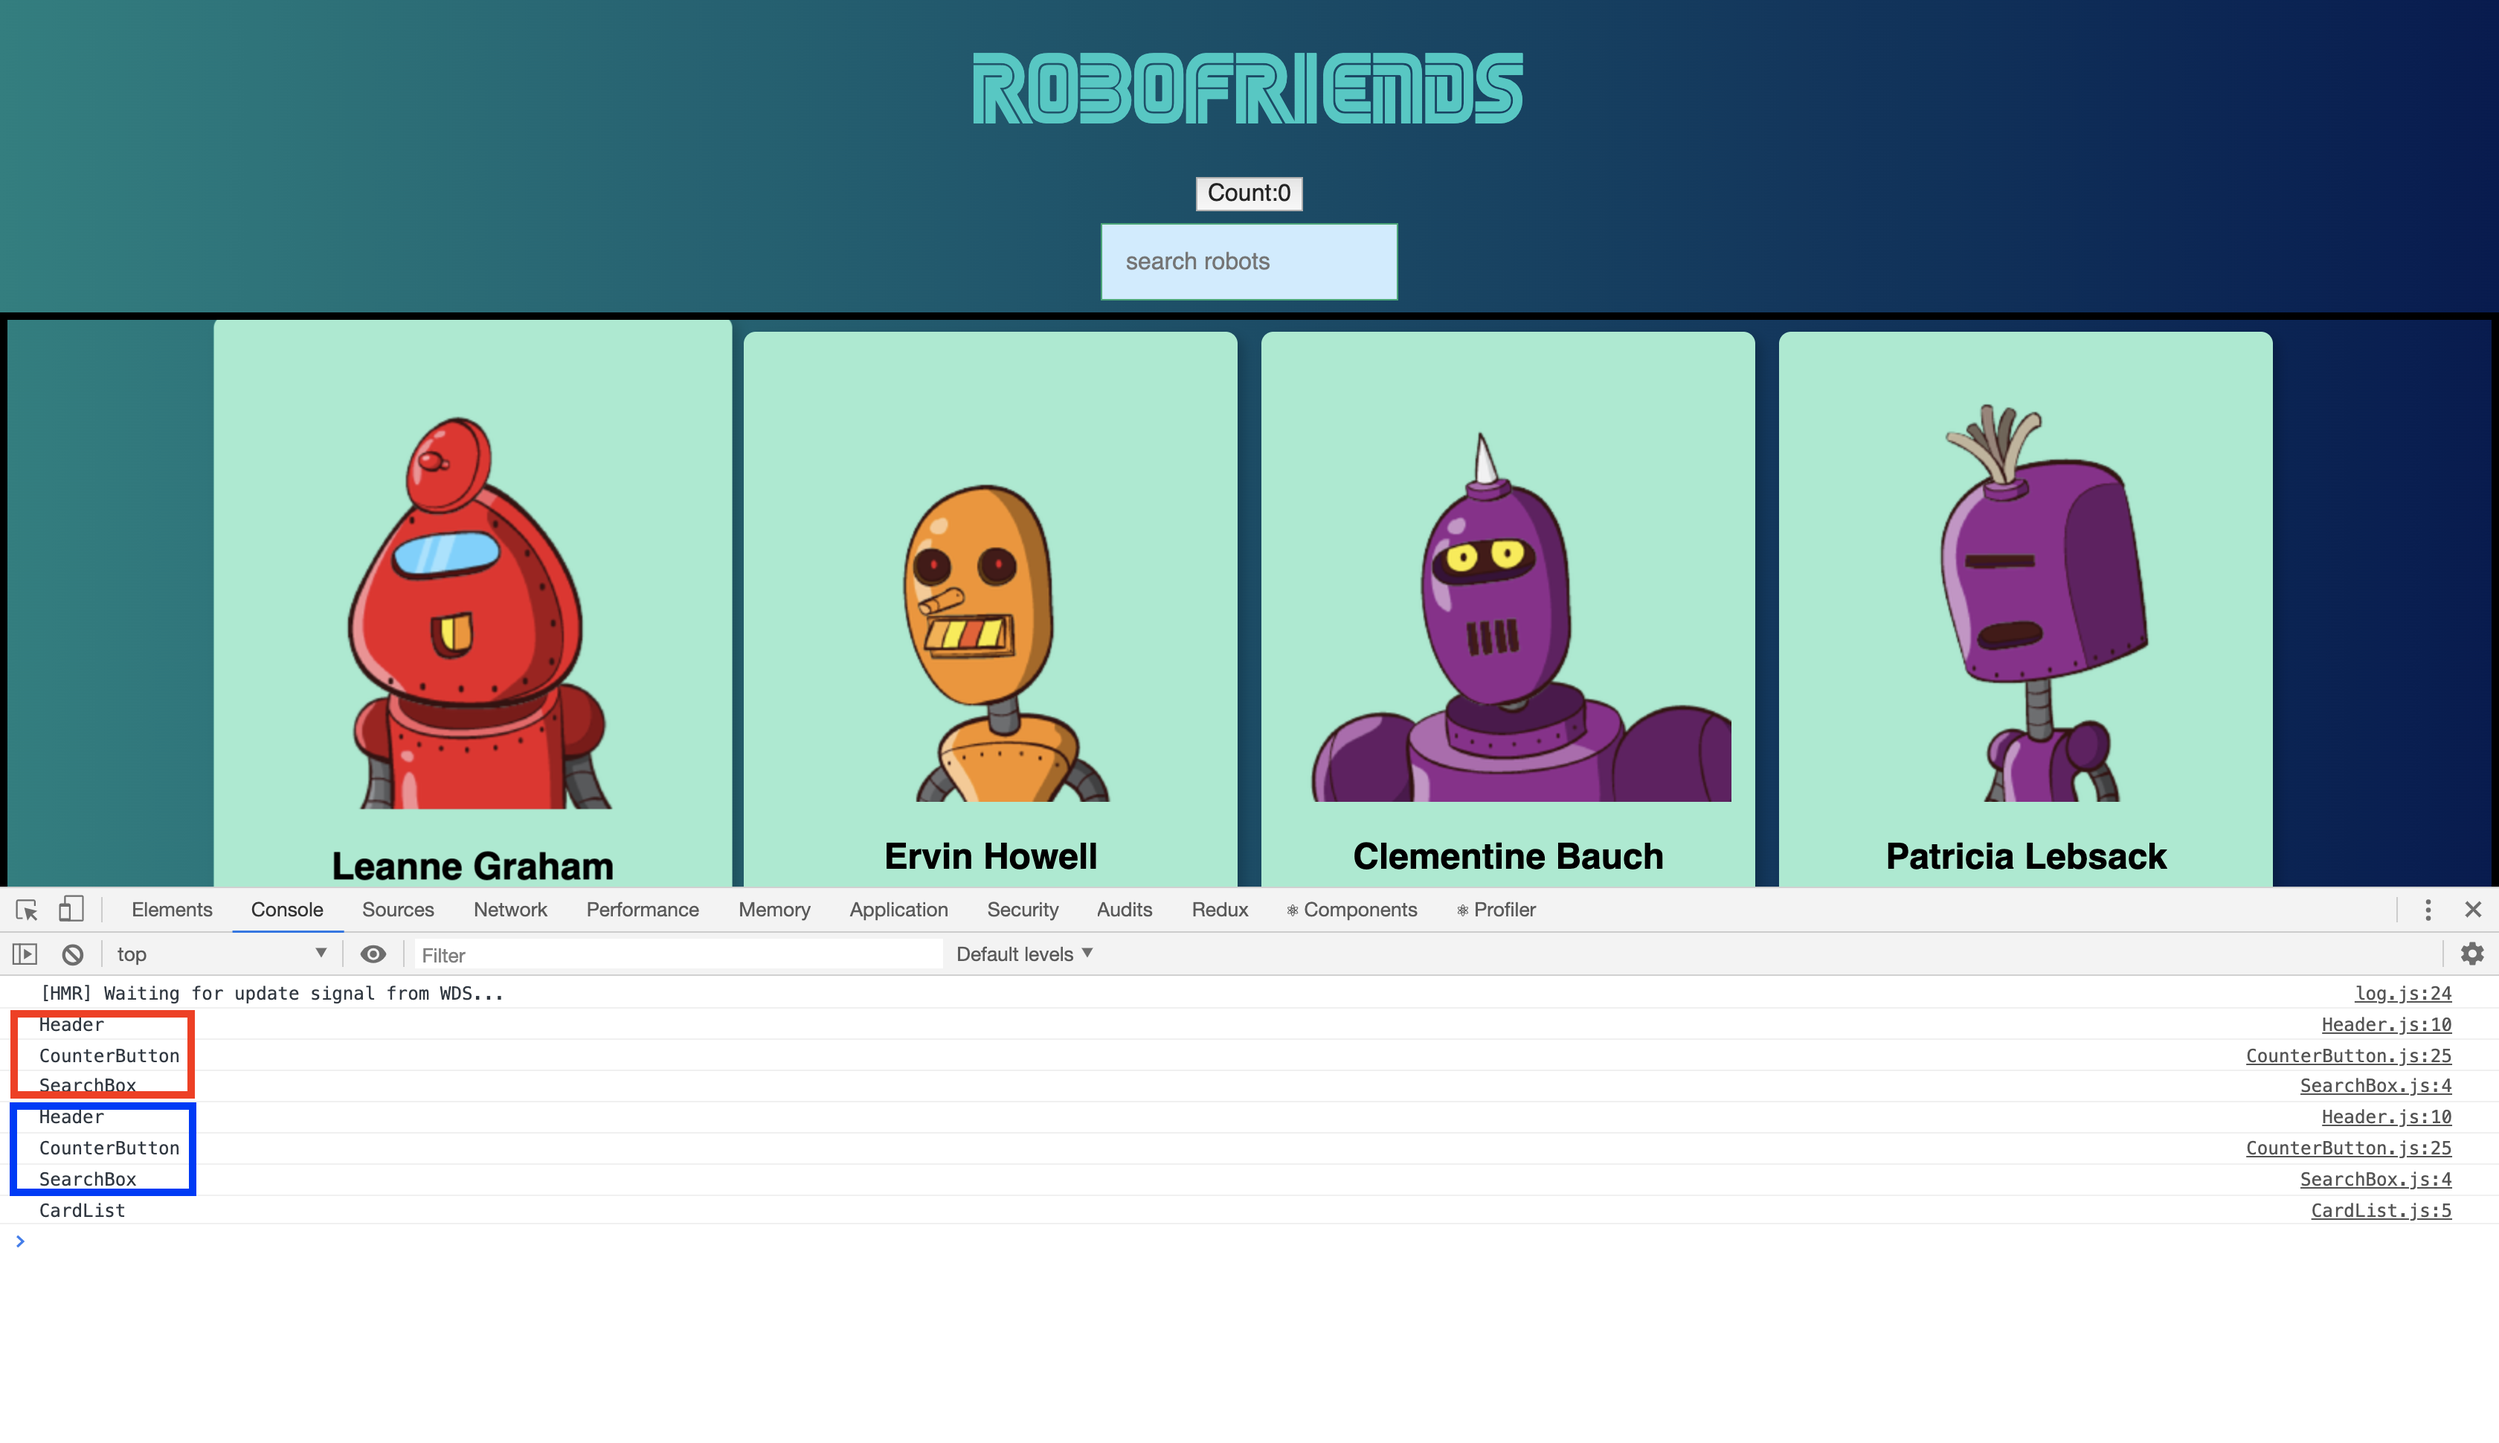
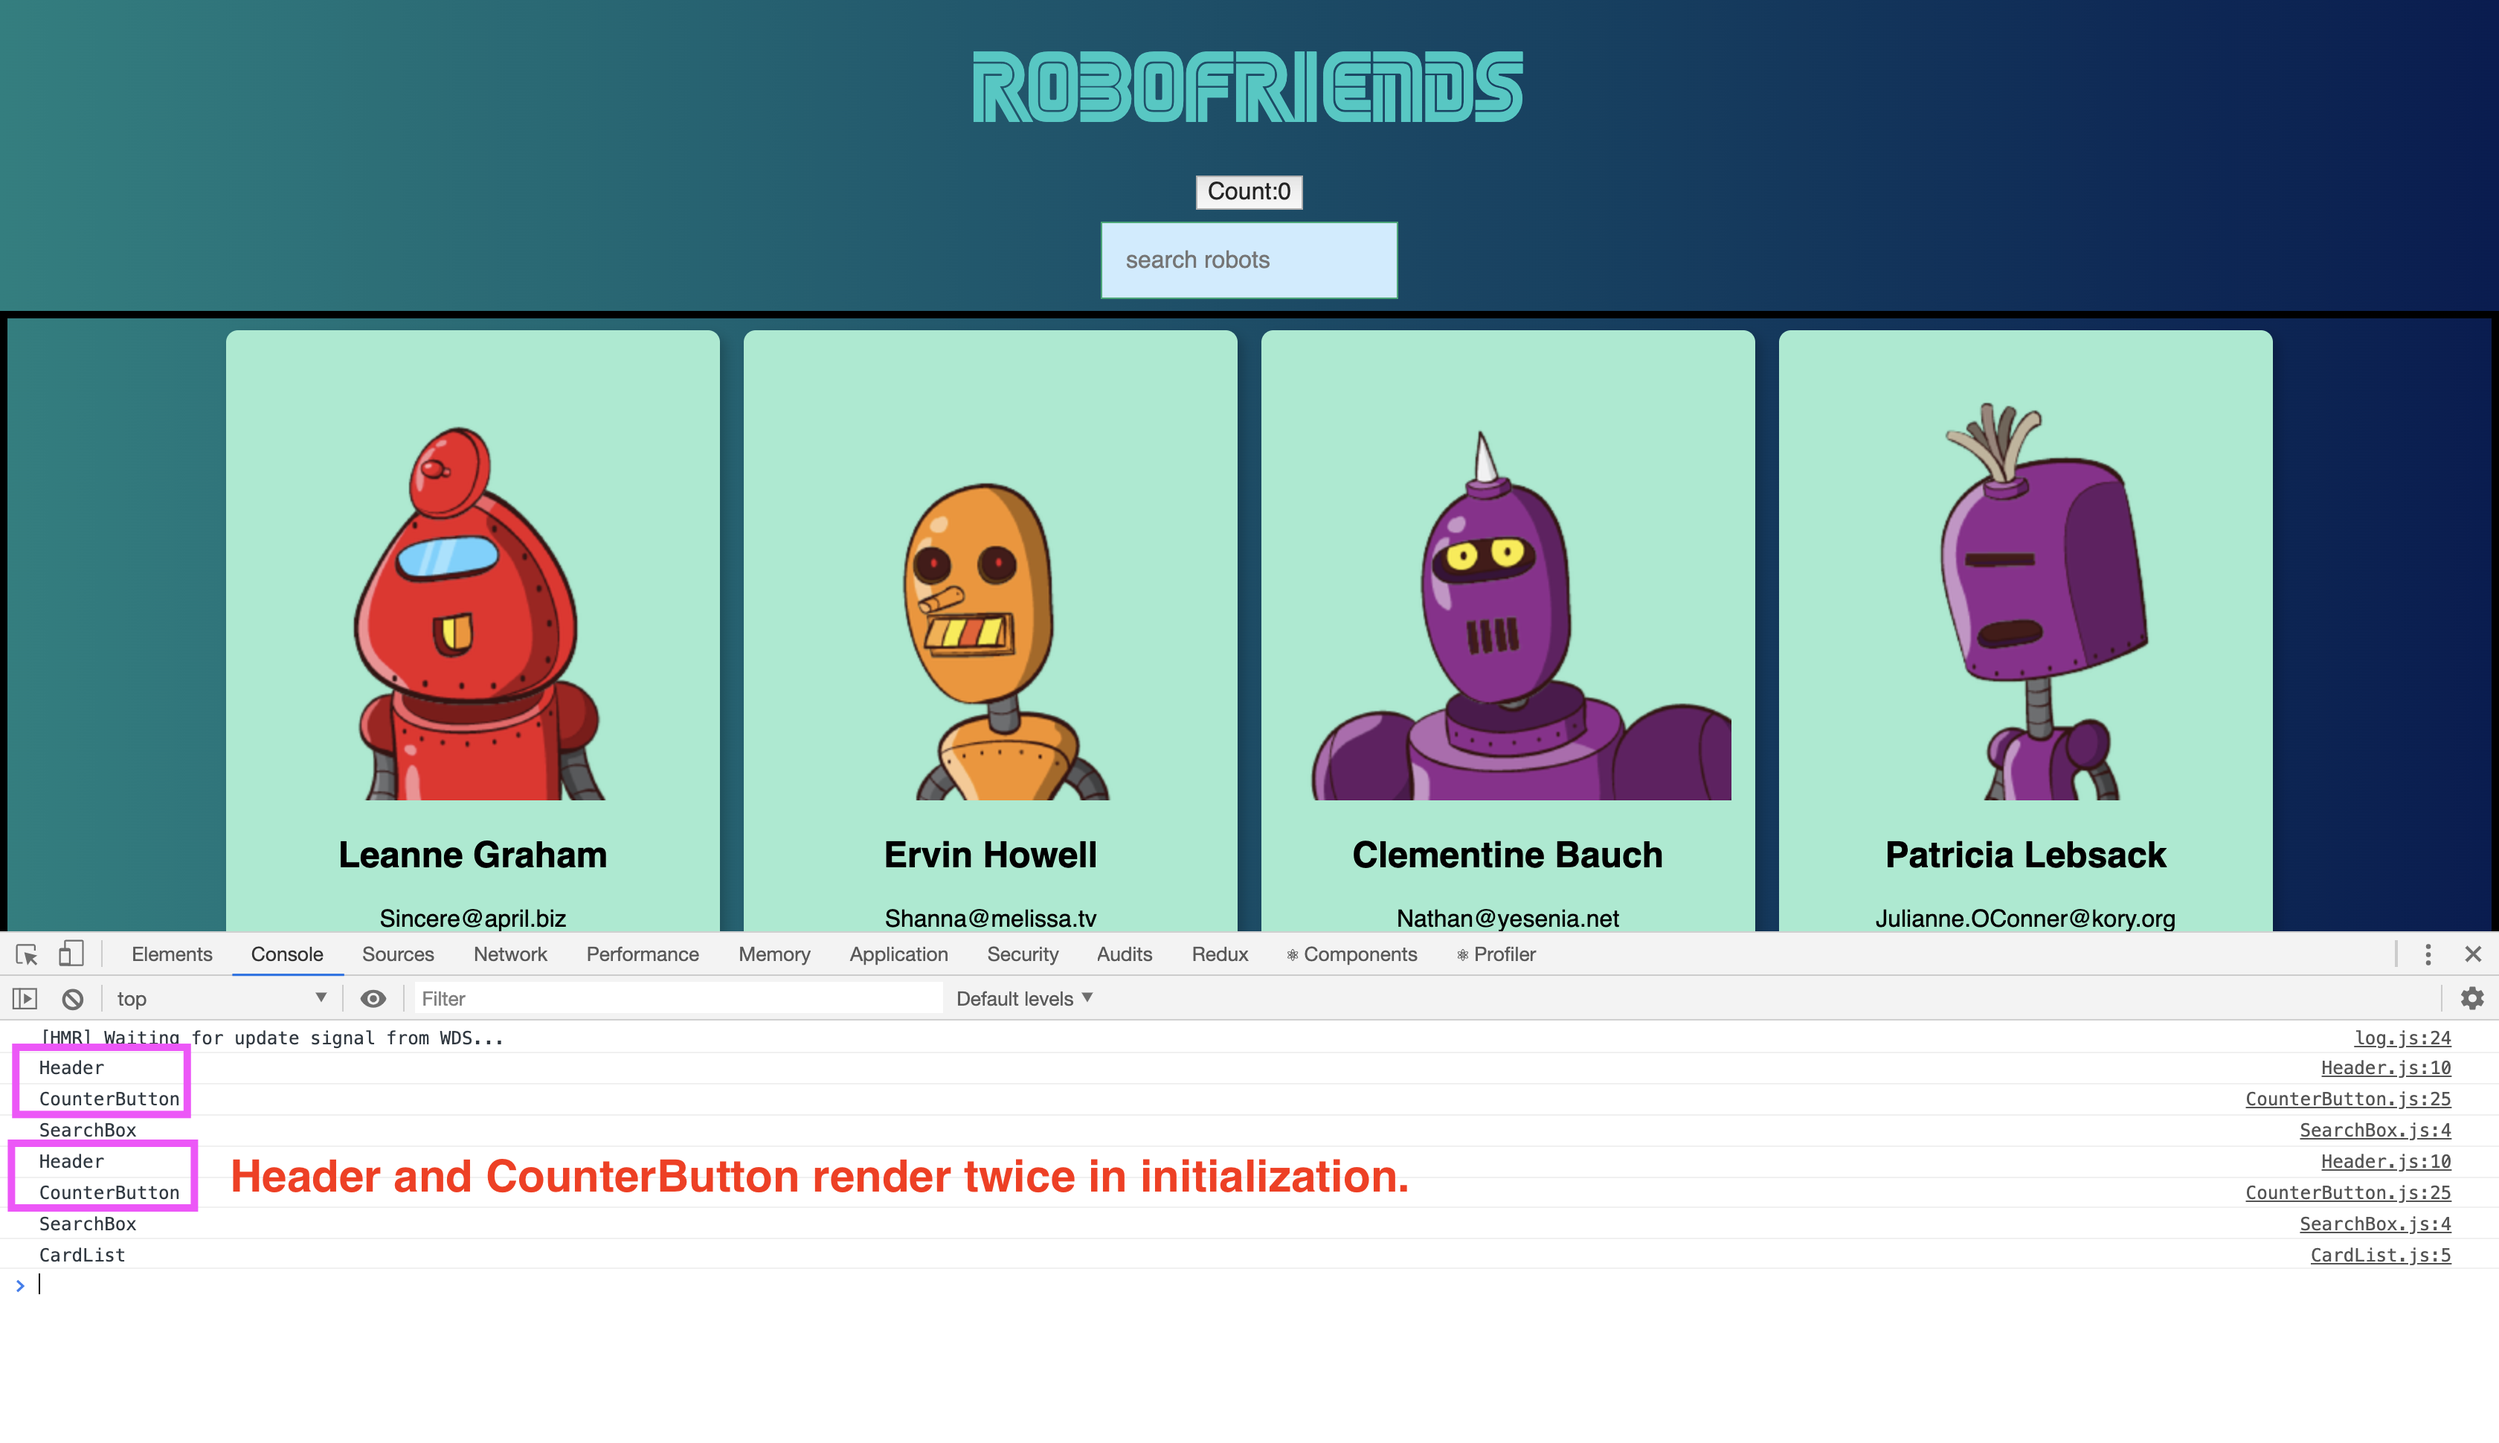
working on PP2-React-Performance

diff --git a/React+Redux+webpack/robotFriends-redux/src/components/Header.js b/React+Redux+webpack/robotFriends-redux/src/components/Header.js
@@ -2,9 +2,9 @@ import React, { Component } from 'react';
 import CounterButton from './CounterButton'
 
 class Header extends Component {
-    // shouldComponentUpdate(nextProps, nextState) {
-    //     return false;
-    // }
+    shouldComponentUpdate(nextProps, nextState) {
+        return false;
+    }
 
     render() {
         console.log('Header');

diff --git a/Performance-Part2/React-Performance.md b/Performance-Part2/React-Performance.md
@@ -37,7 +37,7 @@
 
 - #### Click here: [BACK TO CONTENT](#11.0)
 
-- __`Location: ../React-Redux+webpack/robotFriends-redux/Performance2.2/edition2/App.js`__
+- __`Location: ./Performance2.2/edition2/App.js`__
 
 ```js
 import React, { Component } from 'react';
@@ -100,7 +100,7 @@ const mapDispatchToProps = (dispatch) => {
 export default connect(mapStateToProps, mapDispatchToProps)(App)
 ```
 
-- __`Location: ../React-Redux+webpack/robotFriends-redux/Performance2.2/edition2/Header.js`__
+- __`Location: ./Performance2.2/edition2/Header.js`__
 
 ```js
 import React, { Component } from 'react';
@@ -127,13 +127,11 @@ export default Header;
 1. 
 
 
-
-
 ### <span id="11.2">`Step2: Create a CounterButton component.`</span>
 
 - #### Click here: [BACK TO CONTENT](#11.0)
 
-- __`Location: ./example1/code-splitting/editon2/App.js`__
+- __`Location: ./Performance2.2/edition2/CounterButton.js`__
 
 ```js
 import React, { Component } from 'react';
@@ -197,20 +195,45 @@ export default CounterButton;
 +    }
 ```
 
-### <span id="11.3">`Step3: Solution2: Using high order function to generate async Component.`</span>
+### <span id="11.3">`Step3: Add 'shouldComponentUpdate' into Header.`</span>
 
 - #### Click here: [BACK TO CONTENT](#11.0)
 
-- __`Location: ./example1/code-splitting/edition2/AsyncComponent.js`__
+- __`Location: ./Performance2.2/edition2/Header.js`__
 
 ```js
+import React, { Component } from 'react';
+import CounterButton from './CounterButton'
 
+class Header extends Component {
+    shouldComponentUpdate(nextProps, nextState) {
+        return false;
+    }
+
+    render() {
+        console.log('Header');
+        return (
+            <div>
+                <h1 className='f1'>RoboFriends</h1>
+                <CounterButton />
+            </div>
+        )
+    }
+}
+
+export default Header;
 ```
 
 - __`Result`__:
 
 <p align="center">
-<img src="../assets/p11-6.png" width=90%>
+<img src="../assets/p11-3.png" width=90%>
+</p>
+
+----------------------------------------------------------------------------
+
+<p align="center">
+<img src="../assets/p11-4.png" width=90%>
 </p>
 
 ----------------------------------------------------------------------------
